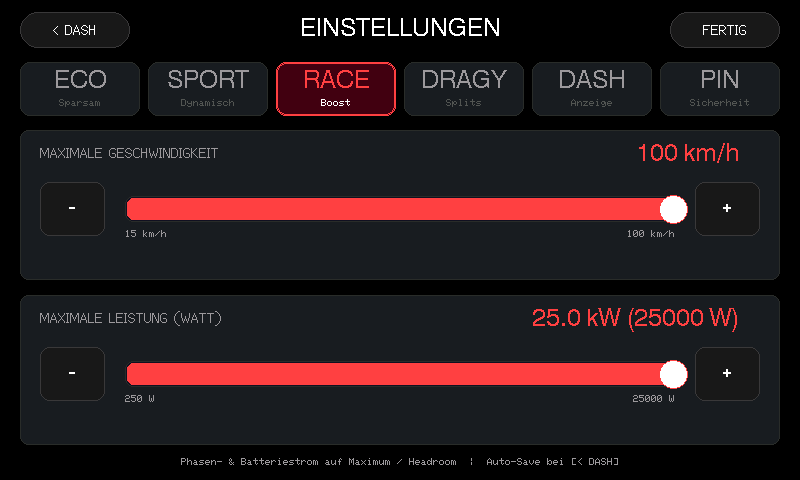
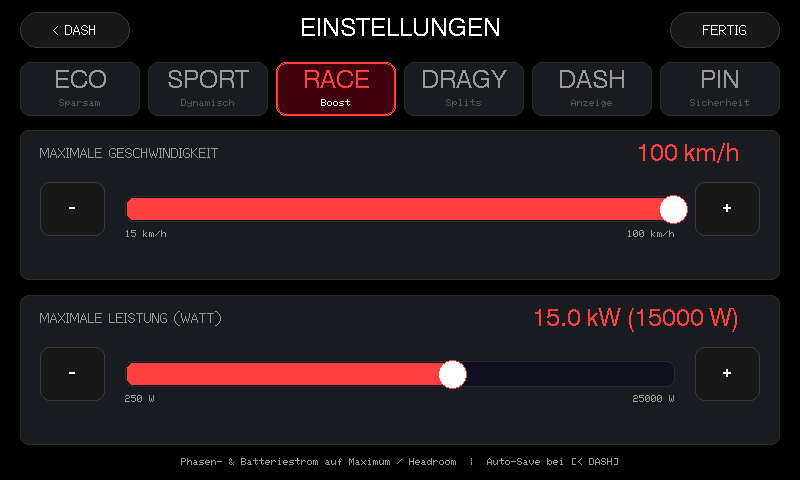
fix(modes): Keep battery (60A/70A boost) and phase currents untouched, only uncap speed/ERPM

Changed region(s): [[0.5312, 0.75, 0.875, 0.8125], [0.7812, 0.625, 0.8125, 0.6875], [0.6562, 0.625, 0.6875, 0.6875]]

diff --git a/src/mode_manager.cpp b/src/mode_manager.cpp
@@ -59,12 +59,12 @@ void ModeManager::setFactoryDefaults() {
     _config.tuned_modes[PROFILE_MODE_SPORT].max_battery_amps = 60.0f;
     _config.tuned_modes[PROFILE_MODE_SPORT].max_phase_amps   = 120.0f;
 
-    // 2: Tuned RACE (Full Performance 100+ km/h Output - Komplett Offen)
+    // 2: Tuned RACE (Full Performance 100+ km/h Output - Speed Komplett Offen)
     _config.tuned_modes[PROFILE_MODE_RACE].max_speed_kmh    = 100.0f;
-    _config.tuned_modes[PROFILE_MODE_RACE].max_power_watts  = 25000.0f;
-    _config.tuned_modes[PROFILE_MODE_RACE].max_pull_watts   = 35000.0f;
-    _config.tuned_modes[PROFILE_MODE_RACE].max_battery_amps = 80.0f;
-    _config.tuned_modes[PROFILE_MODE_RACE].max_phase_amps   = 150.0f;
+    _config.tuned_modes[PROFILE_MODE_RACE].max_power_watts  = 15000.0f;
+    _config.tuned_modes[PROFILE_MODE_RACE].max_pull_watts   = 25000.0f;
+    _config.tuned_modes[PROFILE_MODE_RACE].max_battery_amps = 60.0f;
+    _config.tuned_modes[PROFILE_MODE_RACE].max_phase_amps   = 140.0f;
 
     // Global parameters
     _config.throttle_curve       = 0;     // 0 = Linear
@@ -282,34 +282,26 @@ ModeLimits ModeManager::getActiveLimits() const {
     }
 
     if (_boost_active) {
+        // Boost requested by user: 70A battery current (statt 60A standard), 140A phase
+        lim.max_battery_amps = 70.0f;
+        if (lim.max_phase_amps < 140.0f) {
+            lim.max_phase_amps = 140.0f;
+        }
+        if (lim.max_power_watts < 4000.0f) {
+            lim.max_power_watts = 4000.0f;
+        }
         if (_ride_mode == MODE_RACE) {
-            // RACE + BOOST: KOMPLETT OFFEN!
-            // Volle Ubox 100100 Hardware-Kapazität, ERPM unbegrenzt, keine Leistungsdrossel
-            lim.max_speed_kmh = 100.0f;     // Unbegrenzt (VESC ERPM 100k)
-            lim.max_battery_amps = 100.0f;  // Volle 100A Ubox 100100 Dauer-/Peak-Strom
-            lim.max_phase_amps = 180.0f;    // Maximales Drehmoment
-            lim.max_power_watts = 35000.0f; // Volle 35 kW Spitzenleistung freigegeben
-            lim.max_pull_watts = 35000.0f;
-        } else {
-            // Normal Boost in SPORT / ECO: 70A Batterie, 140A Phase, 4000W
-            lim.max_battery_amps = 70.0f;
+            lim.max_speed_kmh = 100.0f; // Speed komplett offen (VESC ERPM 100.000)
+        }
+    } else if (_tuning_mode) {
+        // Normal tuned mode: 60A battery current
+        lim.max_battery_amps = 60.0f;
+        if (_ride_mode == MODE_RACE) {
+            lim.max_speed_kmh = 100.0f; // Speed komplett offen (VESC ERPM 100.000)
             if (lim.max_phase_amps < 140.0f) {
                 lim.max_phase_amps = 140.0f;
             }
-            if (lim.max_power_watts < 4000.0f) {
-                lim.max_power_watts = 4000.0f;
-            }
-        }
-    } else if (_tuning_mode) {
-        if (_ride_mode == MODE_RACE) {
-            // Normal RACE Modus (ohne Boost): bereits aggressiv und offen
-            lim.max_speed_kmh = 100.0f;
-            if (lim.max_battery_amps < 80.0f) lim.max_battery_amps = 80.0f;
-            if (lim.max_phase_amps < 150.0f) lim.max_phase_amps = 150.0f;
-            if (lim.max_power_watts < 25000.0f) lim.max_power_watts = 25000.0f;
         } else {
-            // Normal tuned mode SPORT: 60A Batterie, 120A Phase
-            lim.max_battery_amps = 60.0f;
             if (lim.max_phase_amps < 120.0f) {
                 lim.max_phase_amps = 120.0f;
             }

diff --git a/tools/simulator/sim_main.cpp b/tools/simulator/sim_main.cpp
@@ -882,21 +882,20 @@ void testModeManagerAndLegalProfiles() {
     ModeLimits tSportLim = ModeManager::instance().getActiveLimits();
     assert(tSportLim.max_speed_kmh == 55.0f);
 
-    // RACE + BOOST (Komplett Offen: 100A Bat, 180A Phase, 35kW, Speed unbegrenzt)
+    // RACE + BOOST (Speed Komplett Offen, Standard Ströme: 70A Bat, 140A Phase)
     ModeManager::instance().setRideMode(MODE_RACE);
     ModeLimits tRaceLim = ModeManager::instance().getActiveLimits();
-    assert(tRaceLim.max_speed_kmh >= 85.0f);
+    assert(tRaceLim.max_speed_kmh == 100.0f);
     assert(strcmp(ModeManager::instance().getActiveModeName(), "RACE") == 0);
 
     ModeManager::instance().setBoostActive(true);
     ModeLimits boostRaceLim = ModeManager::instance().getActiveLimits();
-    assert(boostRaceLim.max_battery_amps == 100.0f);
-    assert(boostRaceLim.max_phase_amps == 180.0f);
-    assert(boostRaceLim.max_power_watts == 35000.0f);
+    assert(boostRaceLim.max_battery_amps == 70.0f);
+    assert(boostRaceLim.max_phase_amps == 140.0f);
     assert(boostRaceLim.max_speed_kmh == 100.0f);
     ModeManager::instance().setBoostActive(false);
 
-    printf("[PASS] Tuned Mode unlocked limits verified: ECO 35 km/h, SPORT 55 km/h, RACE 100 km/h (Boost: 100A/180A/35kW Komplett Offen).\n");
+    printf("[PASS] Tuned Mode unlocked limits verified: ECO 35 km/h, SPORT 55 km/h, RACE 100 km/h (Boost: 70A Bat, 140A Phase, Speed Komplett Offen).\n");
 
     // 3. System Lock (Item 7 Immobilizer)
     ModeManager::instance().setLocked(true);
